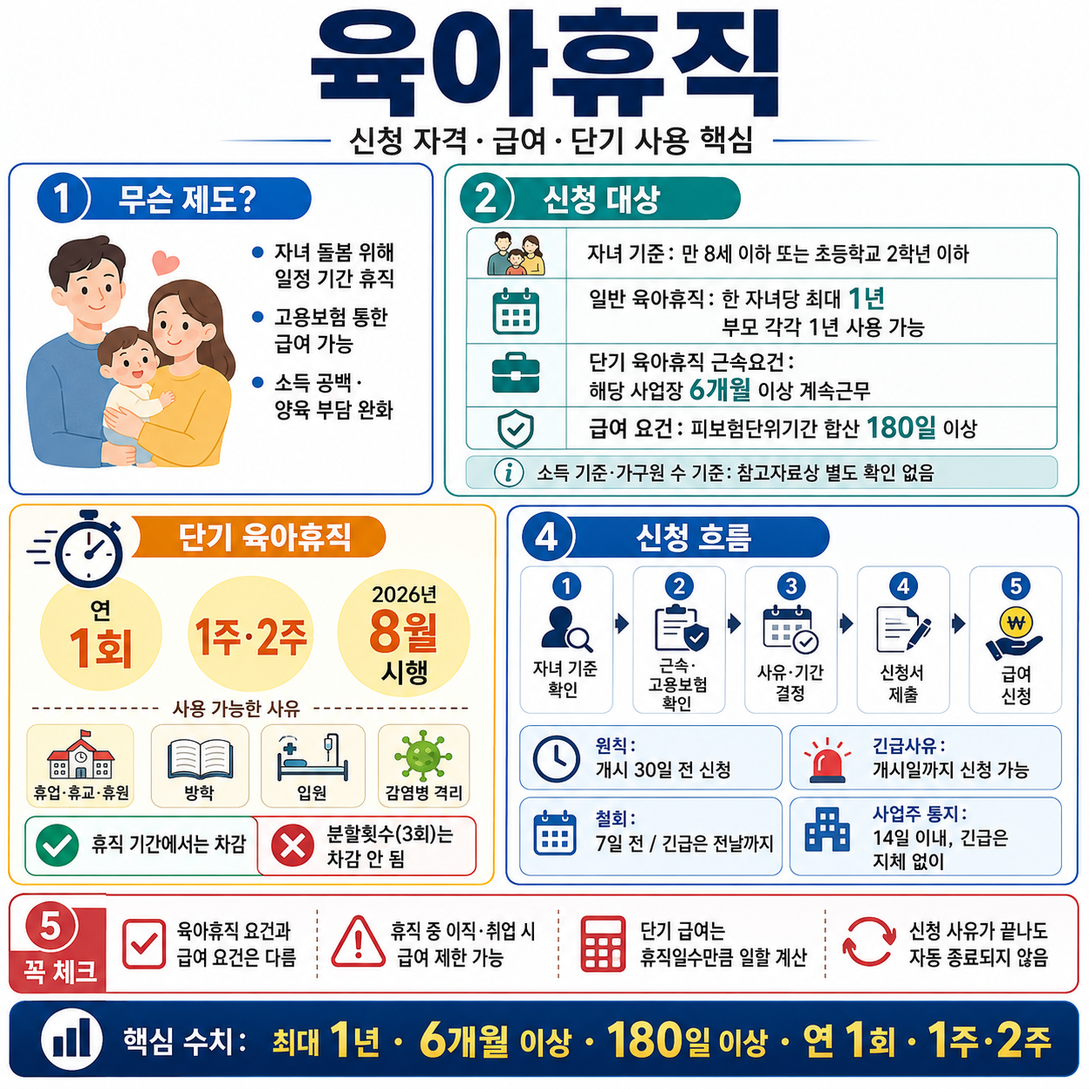
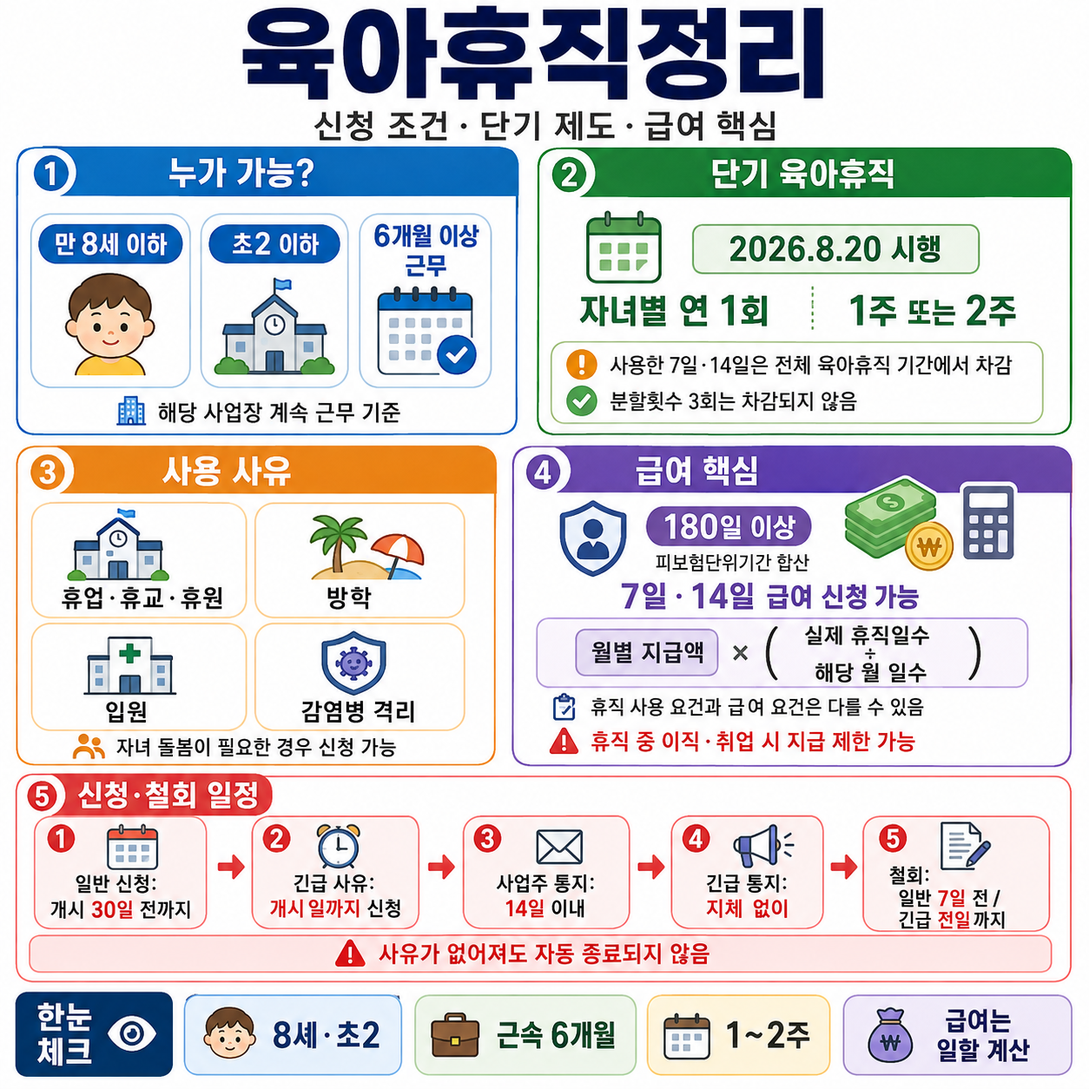
post: auto-generated for tax-yearend

diff --git a/sites/tax-yearend/content/posts/2026-08-29-육아휴직-신청-조건과-혜택-총정리.md b/sites/tax-yearend/content/posts/2026-08-29-육아휴직-신청-조건과-혜택-총정리.md
@@ -1,0 +1,301 @@
+---
+title: "육아휴직 신청 조건과 혜택 총정리"
+date: 2026-08-29
+description: "육아휴직은 어떤 제도인가요? 육아휴직은 근로자가 자녀를 돌보기 위해 일정 기간 일을 쉬면서 육아에 집중할 수 있도록 하는 제도입니다. 휴직 기간에는 일정한 요건을 충족할 경우 고용보험을 통한 육아휴직 급여 를 신청할 수 있습니다. 육아휴직을 사용할 수 있는 요건과 실제 육아휴직 급여를 받을 수 있는 요건은 서로 구분해서 "
+categories: ["지원금·혜택"]
+tags: ["육아휴직", "지원금·혜택"]
+author: "오늘의 트렌드"
+image: "/images/육아휴직-신청-조건과-혜택-총정리.png"
+---
+
+## 육아휴직은 어떤 제도인가요?
+
+육아휴직은 근로자가 자녀를 돌보기 위해 일정 기간 일을 쉬면서 육아에 집중할 수 있도록 하는 제도입니다. 휴직 기간에는 일정한 요건을 충족할 경우 고용보험을 통한 **육아휴직 급여**를 신청할 수 있습니다. 육아휴직을 사용할 수 있는 요건과 실제 육아휴직 급여를 받을 수 있는 요건은 서로 구분해서 확인할 필요가 있습니다.
+
+특히 2026년 8월에는 육아 과정에서 갑작스럽게 발생하는 돌봄 공백에 대응할 수 있도록 **단기 육아휴직 제도**가 시행됐습니다. 제공된 자료에 따르면 단기 육아휴직은 **2026년 8월 20일부터 시행**되고 있으며, 일반 육아휴직과 마찬가지로 만 8세 또는 초등학교 2학년 이하 자녀를 둔 부모 가운데 해당 사업장에서 6개월 이상 계속 근무한 경우 신청할 수 있습니다.
+
+다만 일반적인 육아휴직을 단순히 짧게 나눠 사용하는 개념과는 차이가 있습니다. 단기 육아휴직은 자녀 돌봄이 필요한 특정한 사유가 있어야 하며, **휴업·휴교·휴원, 방학, 입원, 감염병으로 인한 격리**가 신청 사유로 제시돼 있습니다. 갑작스럽게 학교나 어린이집 운영이 중단되거나 자녀가 입원하는 등 비교적 짧은 기간 집중적인 돌봄이 필요한 상황을 고려한 제도라고 볼 수 있습니다.
+
+사용 기간도 정해져 있습니다. 자녀별로 연 1회 사용할 수 있고, **1주 또는 2주 단위**로만 사용할 수 있습니다. 사용한 7일 또는 14일은 전체 육아휴직 기간에서 차감되지만, 자료에 따르면 육아휴직의 **분할 횟수 3회에서는 차감되지 않습니다.**
+
+단기 육아휴직 기간에도 육아휴직 급여를 신청할 수 있습니다. 다만 월 단위 급여를 그대로 받는 것이 아니라 일반 육아휴직급여 지급기준에 따른 월별 지급액을 실제 휴직 일수에 비례해 계산합니다. 예를 들어 7일을 사용했다면 해당 월의 육아휴직 급여 단가에 `7일 ÷ 해당 월의 일수`를 적용하는 방식입니다.
+
+또 하나 중요한 부분은 육아휴직 자체를 사용할 수 있는지와 **고용보험에서 육아휴직 급여를 받을 수 있는지**가 반드시 동일하지는 않다는 점입니다. 제공된 자료에 따르면 육아휴직 급여를 신청하려면 육아휴직일 이전 고용보험법상 **피보험단위기간(고용보험 급여 자격을 계산할 때 인정되는 가입 기간)이 합산 180일 이상**이어야 합니다.
+
+## 이런 분이 신청할 수 있어요
+
+2026년 8월 시행된 단기 육아휴직을 기준으로 보면 다음 조건을 먼저 확인하시면 됩니다.
+
+| 구분            | 기준                            |
+| ------------- | ----------------------------- |
+| 자녀 연령         | 만 8세 또는 초등학교 2학년 이하           |
+| 근로기간          | 해당 사업장에서 6개월 이상 계속 근무         |
+| 소득 기준         | 제공된 자료에서 별도 소득 기준 확인되지 않음     |
+| 가구소득 기준       | 제공된 자료에서 별도 기준 확인되지 않음        |
+| 가구원 수 기준      | 제공된 자료에서 별도 기준 확인되지 않음        |
+| 신청 가능한 부모     | 위 자녀 요건과 근속 요건을 충족한 부모        |
+| 사용 사유         | 휴업·휴교·휴원, 방학, 입원, 감염병으로 인한 격리 |
+| 사용 기간         | 1주 또는 2주                      |
+| 사용 횟수         | 자녀별 연 1회                      |
+| 육아휴직 급여 추가 요건 | 육아휴직일 이전 피보험단위기간 합산 180일 이상   |
+
+즉, 자녀가 만 8세 이하이거나 초등학교 2학년 이하라고 해서 아무 때나 단기 육아휴직을 사용할 수 있는 것은 아닙니다. 자료에 명시된 돌봄 사유 가운데 하나에 해당해야 하며, 해당 사업장에서 6개월 이상 계속 근무했다는 요건도 함께 충족해야 합니다.
+
+반대로 단기 육아휴직 대상에 해당하더라도 고용보험 피보험단위기간이 180일에 미달하면 육아휴직 급여 신청 요건은 별도로 충족하지 못할 수 있으므로 휴직 사용과 급여 지급을 나누어 확인하시는 것이 좋습니다.
+
+## 단기 육아휴직 사용 조건 한눈에 보기
+
+| 항목         | 내용                         |
+| ---------- | -------------------------- |
+| 시행 시점      | 2026년 8월 20일부터             |
+| 대상 자녀      | 만 8세 또는 초등학교 2학년 이하        |
+| 근속 요건      | 해당 사업장에서 계속 근무 6개월 이상      |
+| 인정 사유 ①    | 휴업·휴교·휴원 등                 |
+| 인정 사유 ②    | 방학                         |
+| 인정 사유 ③    | 입원                         |
+| 인정 사유 ④    | 감염병으로 인한 격리                |
+| 사용 단위      | 1주 또는 2주                   |
+| 사용 횟수      | 자녀별 연 1회                   |
+| 전체 육아휴직 기간 | 사용한 7일 또는 14일만큼 차감         |
+| 분할 횟수      | 자료에 따르면 분할횟수 3회에서는 차감되지 않음 |
+
+## 육아휴직 급여와 혜택은 얼마나 받을 수 있나요?
+
+제공된 자료에는 일반 육아휴직급여의 구체적인 월 지급액이나 상한액·하한액이 제시돼 있지 않습니다. 따라서 확인되지 않은 금액을 임의로 넣기보다는 자료에서 확인할 수 있는 지급 방식만 정리하겠습니다.
+
+단기 육아휴직은 실제 사용한 기간만큼 일반 육아휴직급여 월별 지급액을 **일할 계산(한 달 금액을 실제 사용 일수에 비례해 계산하는 방식)**하여 지급합니다.
+
+| 혜택 항목      | 지급·적용 내용                             |
+| ---------- | ------------------------------------ |
+| 1주 단기 육아휴직 | 7일분 육아휴직 급여 신청 가능                    |
+| 2주 단기 육아휴직 | 14일분 육아휴직 급여 신청 가능                   |
+| 구체적인 월 급여액 | 제공된 자료에서 확인되지 않음                     |
+| 계산 기준      | 일반 육아휴직급여 월별 지급액 기준                  |
+| 7일 사용 시    | 육아휴직 급여 단가 × (7일 ÷ 해당 월 일수)          |
+| 14일 사용 시   | 월별 지급액을 실제 휴직 일수에 따라 일할 계산           |
+| 고용보험 요건    | 휴직일 이전 피보험단위기간 합산 180일 이상            |
+| 이직·취업 시    | 휴직 기간 중 이직 또는 취업한 경우 급여 지급이 제한될 수 있음 |
+
+예를 들어 7일 동안 단기 육아휴직을 사용했다면 해당 월 전체의 육아휴직 급여를 받는 것이 아니라, 해당 월에 적용되는 육아휴직 급여 단가를 기준으로 7일분만 계산합니다.
+
+다만 참고 자료에는 일반 육아휴직급여의 구체적인 월 지급액이 기재돼 있지 않으므로 실제 예상 급여액을 계산하려면 신청 시점의 공식 지급기준을 별도로 확인하셔야 합니다.
+
+## 일반 육아휴직과 단기 육아휴직에서 꼭 구분할 점
+
+단기 육아휴직을 사용하면 해당 기간은 전체 육아휴직 기간에서 빠집니다. 즉 별도의 육아휴직 기간이 추가로 주어지는 것이 아니라 기존 육아휴직 기간 중 일부를 7일 또는 14일 단위로 사용하는 구조입니다.
+
+하지만 자료에 따르면 단기 육아휴직을 사용했다고 해서 일반 육아휴직의 **분할 횟수 3회가 차감되지는 않습니다.** 짧은 돌봄 공백 때문에 단기 육아휴직을 이용한 뒤 장기간 육아휴직이 필요한 상황이 생길 수 있다는 점을 고려할 때 확인해 둘 만한 부분입니다.
+
+또한 단기 육아휴직은 아무 이유로나 신청할 수 있는 것이 아니라 자료에 명시된 자녀 돌봄 사유가 필요합니다. 특히 방학을 이유로 신청하는 경우 사업 운영에 막대한 지장이 있다면 사업주가 근로자와 협의해 사용 시기를 변경할 수 있다는 점도 주의하셔야 합니다.
+
+## 신청 방법은 어떻게 되나요?
+
+제공된 참고 자료에는 근로자가 **필요사항을 적은 신청서를 제출한다**는 내용은 명시돼 있지만, 특정 온라인 신청 사이트의 명칭이나 실제 화면별 신청 메뉴는 제시돼 있지 않습니다.
+
+따라서 아래 온라인 신청 절차는 자료에 없는 사이트나 버튼을 임의로 안내하지 않고, 실제 신청 전에 확인해야 할 순서를 중심으로 정리합니다. 구체적인 온라인 접수처와 메뉴는 **신청 전 공식 안내 확인**이 필요합니다.
+
+### 온라인 신청 1단계: 본인의 신청 자격을 먼저 확인하세요
+
+우선 자녀가 **만 8세 또는 초등학교 2학년 이하**인지 확인합니다.
+
+다음으로 현재 사업장에서 **6개월 이상 계속 근무했는지** 확인해야 합니다.
+
+단기 육아휴직이라면 자녀 돌봄 사유가 휴업·휴교·휴원, 방학, 입원 또는 감염병으로 인한 격리 가운데 하나에 해당하는지도 확인합니다.
+
+### 온라인 신청 2단계: 1주 또는 2주 중 사용 기간을 정하세요
+
+단기 육아휴직은 하루나 3일처럼 원하는 일수만 골라 사용하는 방식이 아니라 자료에 따르면 **1주 또는 2주 단위**로 사용합니다.
+
+자녀별로 연 1회 사용할 수 있으므로 실제 돌봄 일정과 필요한 기간을 고려해 7일 또는 14일 가운데 선택해야 합니다.
+
+### 온라인 신청 3단계: 신청기한을 계산하세요
+
+원칙적으로 근로자는 **단기 육아휴직 개시 예정일 30일 전까지** 필요한 사항을 기재한 신청서를 제출해야 합니다.
+
+다만 휴업·휴교·휴원, 입원, 격리 등과 같은 긴급한 사유라면 휴직 개시일까지 신청할 수 있습니다.
+
+따라서 일반적인 방학 일정처럼 미리 예상할 수 있는 경우와 갑작스러운 입원·격리처럼 긴급한 경우에는 신청 가능한 시점이 다릅니다.
+
+### 온라인 신청 4단계: 필요한 사항을 기재한 신청서를 제출하세요
+
+제공된 자료에 따르면 근로자가 필요한 사항을 적어 **신청서로 제출**하는 방식입니다.
+
+다만 구체적인 온라인 사이트, 메뉴, 첨부서류 목록과 화면 입력항목은 참고 자료에 제시돼 있지 않습니다.
+
+온라인으로 처리하려는 경우 실제 사용 가능한 전자 신청 방식과 준비서류는 **신청 전 공식 안내 확인**이 필요합니다.
+
+### 온라인 신청 5단계: 사업주의 허용 통지를 확인하세요
+
+사업주는 단기 육아휴직 신청을 받은 근로자에게 **신청일로부터 14일 이내** 허용 사실을 서면으로 통지해야 하며, 전자 방식으로 통지하는 것도 가능합니다.
+
+휴업·휴교·휴원이나 입원, 격리 등 긴급한 사유라면 사업주는 지체 없이 허용 사실을 통지해야 합니다.
+
+방학을 이유로 신청한 경우에는 사업 운영에 막대한 지장이 있을 때 근로자와 협의해 시기를 변경할 수 있습니다.
+
+## 오프라인 신청 방법
+
+제공된 자료에서는 근로자가 필요한 사항을 기재한 신청서를 제출한다는 내용까지 확인됩니다.
+
+다만 특정 기관의 방문 주소나 별도의 오프라인 접수처, 운영시간 등은 자료에 명시돼 있지 않습니다.
+
+따라서 서면으로 신청하려는 경우에는 회사가 안내하는 신청 절차와 제출 방법을 확인하시기 바랍니다. 구체적인 방문 접수처나 제출 창구는 **방문 전 공식 안내 확인**이 필요합니다.
+
+육아휴직 급여 자체의 구체적인 온라인·오프라인 신청 창구 또한 제공된 참고 자료에는 명시돼 있지 않으므로 실제 급여 신청 시 공식 안내를 확인하셔야 합니다.
+
+
+<figure class="post-mid-image">
+  <img src="/images/육아휴직-신청-조건과-혜택-총정리-mid.png" alt="육아휴직 신청 조건과 혜택 총정리 인포그래픽" loading="lazy">
+</figure>
+
+## 신청 기간과 일정은 어떻게 되나요?
+
+단기 육아휴직은 특정 월에만 접수하는 공모형 지원사업이 아닙니다. 제공된 자료에 따르면 **2026년 8월 20일부터 제도가 시행**되고 있으며, 실제 신청기한은 각 근로자가 정한 휴직 시작일을 기준으로 계산합니다.
+
+| 시기          | 내용                                 |
+| ----------- | ---------------------------------- |
+| 2026년 8월    | 8월 20일부터 단기 육아휴직 제도 시행             |
+| 2026년 9월 이후 | 제공 자료상 별도의 월별 접수기간은 확인되지 않음        |
+| 일반 신청       | 휴직 개시 예정일 30일 전까지 신청               |
+| 긴급사유 신청     | 휴업·휴교·휴원, 입원, 격리 등은 휴직 개시일까지 신청 가능 |
+| 사업주 통지      | 신청일부터 14일 이내                       |
+| 긴급사유 통지     | 사업주가 지체 없이 통지                      |
+| 일반적인 신청 철회  | 휴직 개시 예정일 7일 전까지                   |
+| 긴급사유 신청 철회  | 휴직 개시 예정일 전일까지                     |
+
+따라서 “몇 월에 신청해야 하나요?”라는 방식보다는 **내가 실제로 육아휴직을 시작하려는 날짜가 언제인지**를 먼저 정한 뒤 그 날짜에서 30일을 거꾸로 계산하는 것이 중요합니다.
+
+긴급사유는 예외적으로 휴직 개시일까지 신청할 수 있지만, 모든 사유에 이 예외가 적용되는 것은 아닙니다. 자료에서는 휴업·휴교·휴원, 입원, 격리 등을 긴급사유로 제시하고 있습니다.
+
+## 신청 후 마음이 바뀌면 철회할 수 있나요?
+
+가능합니다.
+
+단기 육아휴직은 원칙적으로 **휴직 개시 예정일 7일 전까지** 철회할 수 있습니다.
+
+긴급사유로 신청한 경우에는 **휴직 개시 예정일 전일까지** 철회할 수 있습니다.
+
+여기서 특히 주의할 점이 하나 있습니다. 신청 당시 단기 육아휴직이 필요했던 사유가 나중에 없어졌다고 해서 휴직이 자동으로 종료되는 것은 아닙니다.
+
+예를 들어 신청 당시에는 자녀 돌봄 사유가 있었지만 이후 상황이 달라졌다고 하더라도 자료에 따르면 사유 소멸만으로 자동 종료되지는 않으므로, 신청 변경이나 철회가 필요하다면 정해진 절차를 확인해야 합니다.
+
+## 30일 미만으로 나눠 쓴 육아휴직 급여는 어떻게 될까요?
+
+2026년 5월에는 육아휴직을 한 달 미만으로 사용한 뒤 추후 다른 육아휴직 기간과 합산한 경우의 육아휴직 급여 청구권과 관련해 법원의 판단이 나왔습니다.
+
+제공된 서울신문과 한겨레 자료에 따르면 한 근로자는 2024년 3~4월 둘째 자녀 양육을 위해 첫 번째 육아휴직을 **21일간** 사용했습니다. 당시에는 고용보험법상 육아휴직 급여 지급 요건인 ‘30일 이상’을 충족하지 못해 급여를 신청하지 못했습니다.
+
+이후 같은 근로자는 다시 육아휴직을 사용했고, 전체 휴직 기간을 합산하면 30일을 넘게 됐습니다. 서울행정법원 행정7부는 2026년 5월 28일, 첫 육아휴직이 30일 미만이었더라도 추후 육아휴직과 합산해 30일 이상이 된 경우 전체 기간을 기준으로 급여 청구권이 발생할 수 있다는 취지로 판단했습니다.
+
+서울신문은 첫 휴직 종료일부터 1년이 지났더라도 이후 휴직과 합산해 30일을 넘겼다면 급여를 받을 수 있다는 법원의 판단이라고 보도했습니다.
+
+다만 이는 제공된 자료상 **1심 법원의 판단**이라는 점을 구분해서 보셔야 합니다. 또한 2026년 8월 20일부터 시행된 1주·2주 단기 육아휴직의 급여 지급 내용은 제민일보 자료에서 별도로 안내되고 있으므로, 과거 분할 육아휴직 사례와 현재의 단기 육아휴직 제도를 동일하게 이해하지 않는 것이 중요합니다.
+
+## 육아휴직 신청 전 꼭 알아둘 주의사항과 꿀팁
+
+### 1. 육아휴직 사용 자격과 급여 자격을 따로 확인하세요
+
+단기 육아휴직은 자녀 연령과 근속기간 등의 요건을 충족하면 신청할 수 있지만, 육아휴직 급여는 별도로 **피보험단위기간 180일 이상**이라는 요건이 제시돼 있습니다.
+
+휴직 승인을 받았다고 해서 자동으로 고용보험 급여까지 지급된다고 생각하기보다는 두 요건을 각각 확인하시는 것이 좋습니다.
+
+### 2. 단기 육아휴직은 1주 또는 2주만 가능합니다
+
+자료에서는 자녀별 연 1회, **1주 또는 2주 단위**로만 사용할 수 있다고 설명하고 있습니다.
+
+며칠만 필요하다고 해서 임의로 2일이나 4일 단위로 단기 육아휴직을 신청할 수 있다고 해석해서는 안 됩니다.
+
+### 3. 단기 육아휴직도 전체 육아휴직 기간에서는 차감됩니다
+
+단기 육아휴직이 별도의 추가 휴가처럼 부여되는 것은 아닙니다.
+
+사용한 7일 또는 14일은 전체 육아휴직 기간에서 차감됩니다. 다만 자료에 따르면 육아휴직 **분할 횟수 3회에서는 차감되지 않습니다.**
+
+### 4. 방학과 긴급사유의 신청 처리 방식이 다를 수 있습니다
+
+방학도 단기 육아휴직 사유에 포함되지만, 방학을 이유로 신청했을 때 사업 운영에 막대한 지장이 있다면 사업주가 근로자와 협의해 사용 시기를 변경할 수 있습니다.
+
+반면 휴업·휴교·휴원, 입원, 격리처럼 긴급한 사유는 휴직 개시일까지 신청할 수 있고 사업주는 지체 없이 허용 여부를 통지해야 합니다.
+
+### 5. 신청기한은 휴직 시작일을 기준으로 역산하세요
+
+일반적인 신청은 휴직 개시 예정일 **30일 전까지**입니다.
+
+따라서 자녀 방학이나 예정된 돌봄 일정처럼 미리 알 수 있는 경우에는 필요한 날짜에 맞춰 신청일을 미리 계산해 두는 것이 좋습니다.
+
+### 6. 철회 시점도 별도로 기억해 두세요
+
+일반 신청은 휴직 개시 예정일 **7일 전까지**, 긴급사유 신청은 **개시 예정일 전일까지** 철회할 수 있습니다.
+
+신청만 해놓고 필요 없어졌다고 별도의 조치를 하지 않는 것은 주의해야 합니다.
+
+### 7. 신청 사유가 없어져도 자동 종료되지는 않습니다
+
+자료에서는 단기 육아휴직 신청 사유가 소멸되더라도 휴직이 자동 종료되지 않는다고 설명하고 있습니다.
+
+상황이 바뀌었다면 자동으로 처리될 것이라고 생각하지 말고 변경 또는 철회와 관련된 절차를 확인하는 것이 필요합니다.
+
+### 8. 휴직 중 이직이나 취업은 급여에 영향을 줄 수 있습니다
+
+육아휴직 기간 중 이직 또는 취업한 경우에는 육아휴직 급여 지급이 제한될 수 있습니다.
+
+휴직 기간 중 다른 근로관계 변화가 예정돼 있다면 급여 지급 여부를 미리 확인하시는 것이 좋습니다.
+
+### 9. 단기 육아휴직 급여는 한 달치가 그대로 지급되는 것이 아닙니다
+
+7일이나 14일을 사용하면 실제 휴직 일수에 맞춰 **일할 계산**됩니다.
+
+따라서 “2주 육아휴직이면 월 육아휴직 급여의 절반을 무조건 받는다”는 식으로 단순 계산해서는 안 됩니다. 자료에서는 해당 월의 일수를 기준으로 계산하도록 설명하고 있습니다.
+
+### 10. 과거 30일 미만 분할 사용 사례는 법원 판단을 참고하되 현재 제도와 구분하세요
+
+2026년 5월 서울행정법원은 첫 육아휴직이 30일 미만이었더라도 이후 기간과 합산해 30일을 충족했다면 급여 청구권이 발생할 수 있다는 취지로 판단했습니다.
+
+다만 이는 1심 판결 사례이고, 2026년 8월 20일부터 시행된 단기 육아휴직 제도와는 적용 상황이 다를 수 있으므로 개별 급여 신청은 공식 기준을 확인하시는 것이 좋습니다.
+
+## 자주 묻는 질문 FAQ
+
+**Q: 단기 육아휴직은 누구나 신청할 수 있나요?**
+
+A: 아닙니다. 제공된 자료에 따르면 만 8세 또는 초등학교 2학년 이하 자녀를 둔 부모 가운데 해당 사업장에서 6개월 이상 계속 근무한 경우 신청할 수 있습니다. 또한 휴업·휴교·휴원, 방학, 입원, 감염병으로 인한 격리 등 자녀 돌봄이 필요한 사유에 해당해야 합니다.
+
+**Q: 단기 육아휴직은 며칠씩 사용할 수 있나요?**
+
+A: 자료에 따르면 자녀별 연 1회 사용할 수 있으며 1주 또는 2주 단위로만 사용할 수 있습니다. 사용한 7일 또는 14일은 전체 육아휴직 기간에서는 차감되지만 육아휴직 분할횟수 3회에서는 차감되지 않습니다.
+
+**Q: 단기 육아휴직을 사용해도 육아휴직 급여를 받을 수 있나요?**
+
+A: 가능합니다. 7일 또는 14일 사용 기간에 대한 육아휴직 급여를 신청할 수 있으며 일반 육아휴직급여의 월별 지급액을 해당 월의 실제 휴직일수에 따라 일할 계산합니다. 다만 육아휴직일 이전 고용보험법상 피보험단위기간이 합산 180일 이상이어야 육아휴직 급여를 신청할 수 있습니다.
+
+**Q: 자녀가 갑자기 입원했는데 30일 전에 신청하지 못했다면 사용할 수 없나요?**
+
+A: 자료에서는 입원 등 긴급한 사유의 경우 휴직 개시일까지 신청할 수 있다고 안내하고 있습니다. 휴업·휴교·휴원이나 감염병에 따른 격리 등도 긴급사유로 제시돼 있습니다. 사업주는 이런 긴급사유의 신청에 대해 지체 없이 허용 사실을 통지해야 합니다.
+
+**Q: 예전에 육아휴직을 30일 미만으로 사용해 급여를 신청하지 못했다면 나중에도 받을 수 있나요?**
+
+A: 제공된 2026년 5월 법원 관련 자료에 따르면 서울행정법원은 첫 육아휴직이 30일 미만이었더라도 이후 육아휴직 기간과 합산해 30일을 넘긴 경우 전체 기간을 기준으로 급여 청구권이 발생할 수 있다는 취지로 판단했습니다. 서울신문은 첫 휴직 종료 후 1년이 지났더라도 합산 신청이 가능하다는 취지의 판결이라고 보도했습니다. 다만 해당 내용은 1심 법원의 판단이므로 개별 사례에 그대로 적용된다고 단정하기보다는 실제 신청 시 공식 기준을 확인하시는 것이 좋습니다.
+
+## 정리하면
+
+2026년 8월 20일부터 시행된 단기 육아휴직은 기존 육아휴직을 장기간 사용하기 어려운 상황에서 자녀의 방학이나 입원, 휴업·휴교·휴원, 감염병 격리 등으로 짧은 돌봄 공백이 생겼을 때 활용할 수 있는 제도입니다.
+
+만 8세 또는 초등학교 2학년 이하 자녀를 둔 부모가 해당 사업장에서 6개월 이상 계속 근무했다면 신청 대상이 될 수 있으며, 자녀별로 연 1회, 1주 또는 2주 단위로 사용할 수 있습니다.
+
+사용한 기간은 전체 육아휴직 기간에서는 차감되지만 자료상 분할 횟수 3회에서는 차감되지 않습니다. 또한 7일 또는 14일의 단기 육아휴직에 대해서도 육아휴직 급여를 신청할 수 있고, 일반 육아휴직급여 월별 지급액을 실제 사용 일수에 따라 일할 계산하게 됩니다.
+
+다만 급여를 받기 위해서는 육아휴직일 이전 고용보험 피보험단위기간이 합산 180일 이상이어야 하며, 휴직 기간 중 이직이나 취업이 발생하면 지급이 제한될 수 있습니다.
+
+온라인 신청 사이트나 구체적인 오프라인 접수처, 일반 육아휴직급여의 월 지급금액 등은 제공된 참고 자료에서 확인되지 않으므로 임의로 판단하기보다는 실제 신청 전 공식 안내를 함께 확인하시는 것이 안전합니다.
+
+## 출처
+
+* [https://www.jemin.com/news/articleView.html?idxno=842116](https://www.jemin.com/news/articleView.html?idxno=842116)
+* [https://korea.kr/multi/visualNewsView.do?newsId=148902563](https://korea.kr/multi/visualNewsView.do?newsId=148902563)
+* [https://www.seoul.co.kr/news/society/2026/05/28/20260528500266](https://www.seoul.co.kr/news/society/2026/05/28/20260528500266)
+* [https://www.hani.co.kr/arti/society/society_general/1260929.html](https://www.hani.co.kr/arti/society/society_general/1260929.html)
+
+---
+
+<figure class="post-comic">
+  <figcaption>오늘의 시사 4컷</figcaption>
+  <img src="/images/육아휴직-신청-조건과-혜택-총정리-comic.png" alt="육아휴직 신청 조건과 혜택 총정리 4컷만화" loading="lazy">
+</figure>
